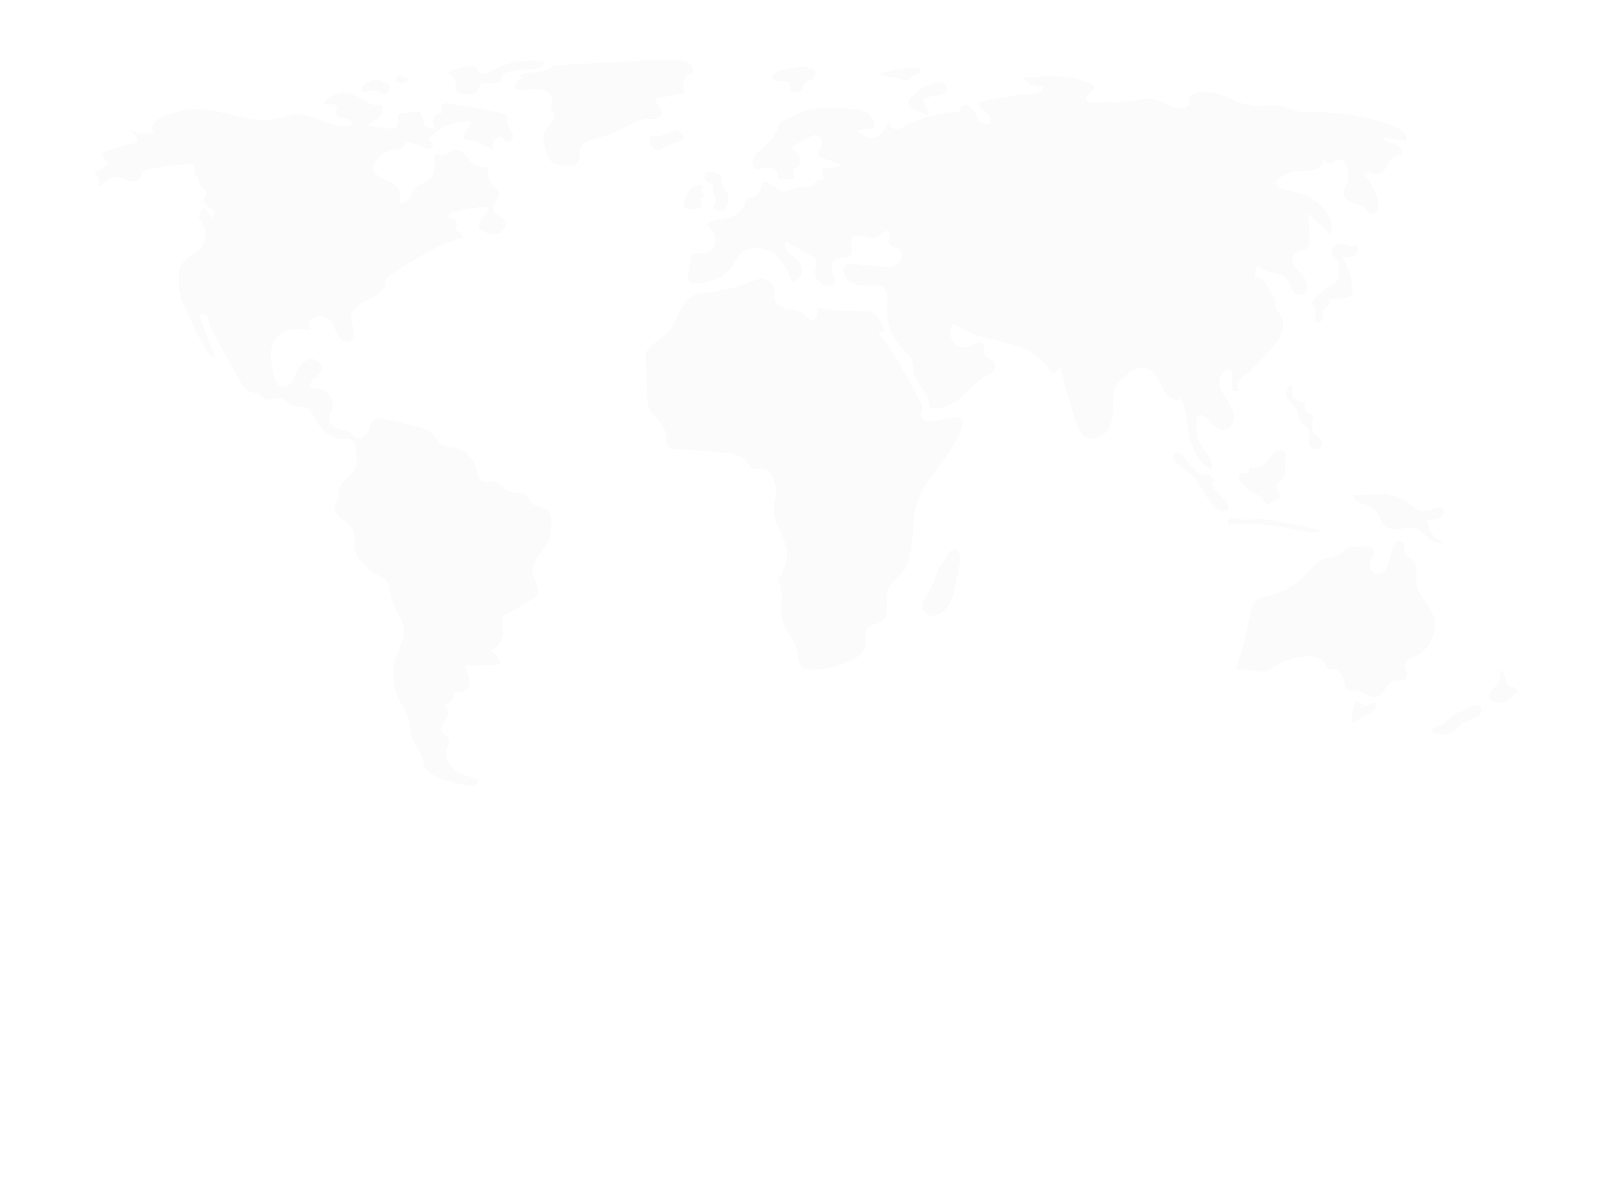
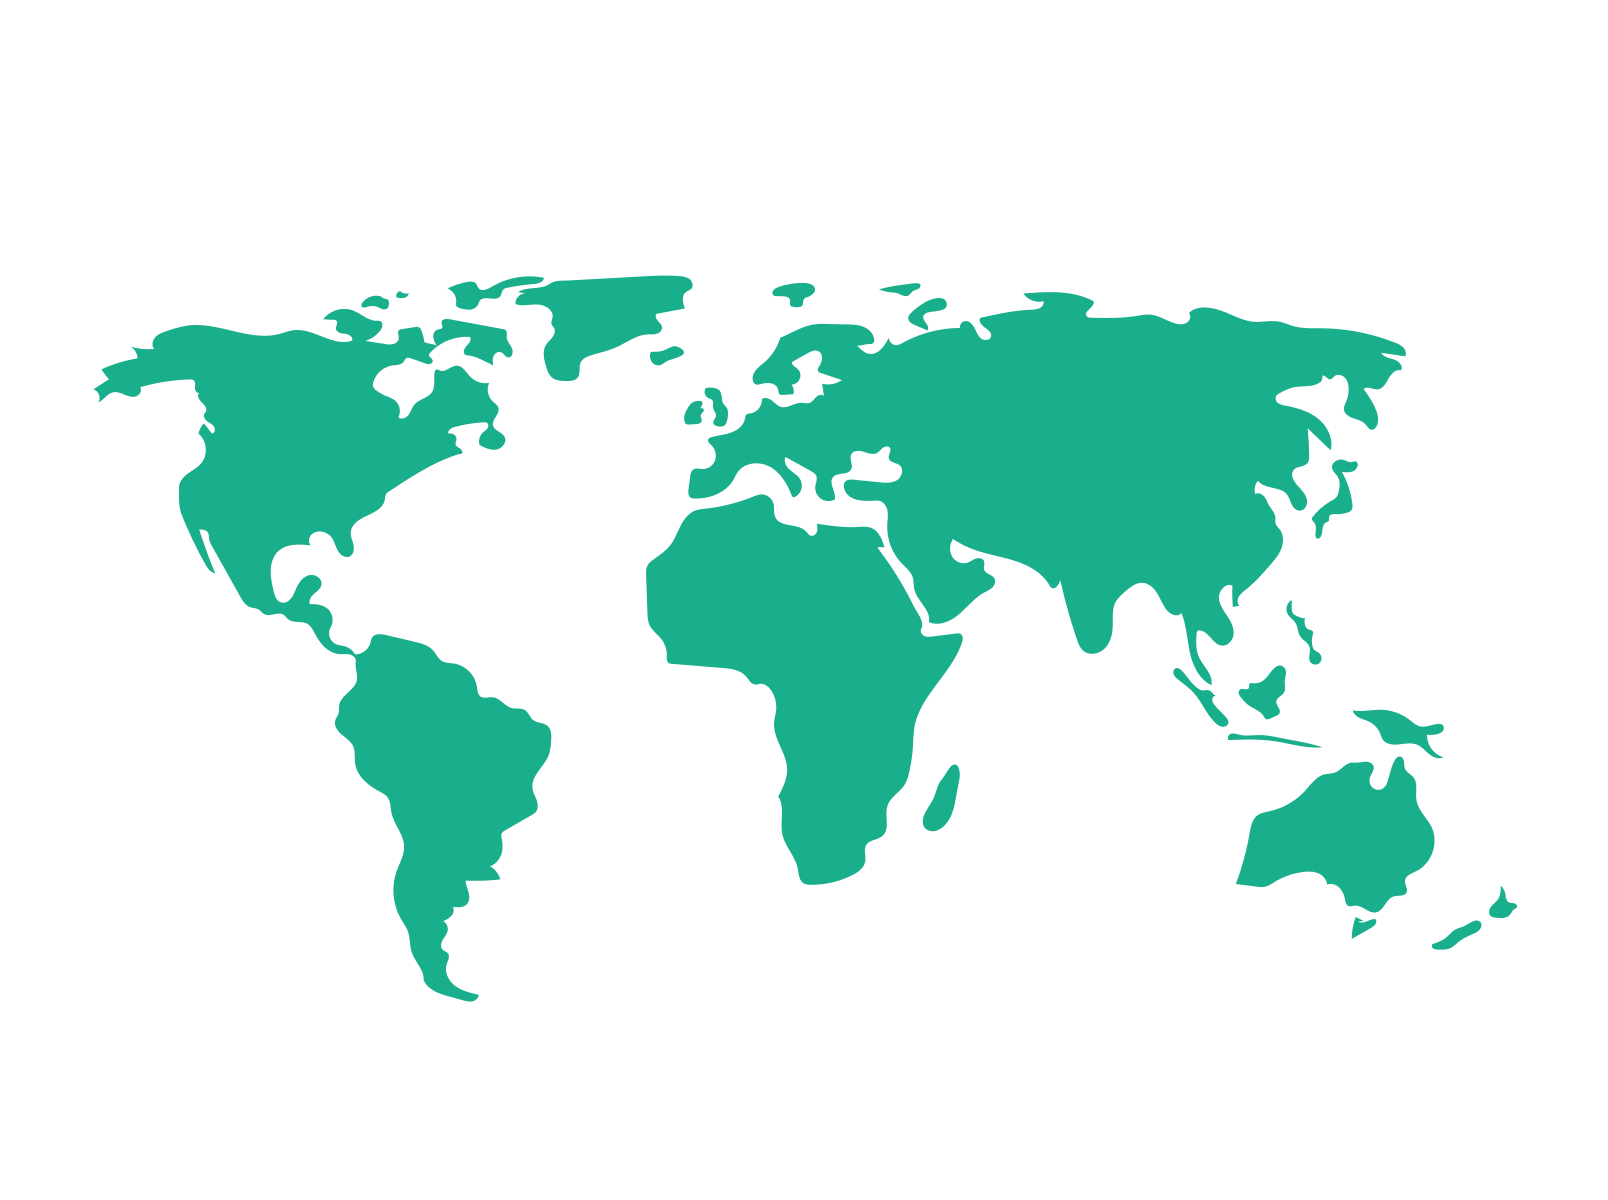
Atualizar css

diff --git a/user/index.css b/user/index.css
@@ -1,0 +1,217 @@
+:root{
+    --bg-color: #ffffff;
+    --color-text: #1869AB;
+    --color-btn: #19AF8C;
+}
+
+* {
+    margin: 0;
+    padding: 0;
+    box-sizing: border-box;
+}
+
+@font-face {
+    font-family: 'minha-fonte';
+    src: url('../fonts/PlaypenSans-Regular.ttf') format('woff2');
+}
+
+
+body {
+    display: flex;
+    justify-content: center;
+    text-align: center;
+    align-items: center;
+    background-color: var(--bg-color);
+    font-family: 'minha-fonte', sans-serif;
+    height: 100vh;
+    overflow: hidden;
+}
+
+.container {
+    display: none;
+    flex-direction: column;
+    align-items: center;
+}
+
+
+/* --------------------------------------------------------- */
+
+/* MODAL */
+
+.modal{
+    display: flex;
+    height: 100vh;
+    width: 100vw;
+    position: absolute;
+    justify-content: center;
+    align-items: center;
+}    
+
+.modal h1{
+    color: var(--color-text);
+    z-index: 999999;
+    position: absolute;
+    font-size: 4vw;
+    top: 4vw;
+}
+
+.imagem{
+    text-align: center;
+    position: absolute;
+    top: 12vw;
+    background-color: #1869AB;
+    border-radius: 4vw 4vw 0 0;
+    height: 100vh;
+    width: 100vw;
+}
+
+#globo-img{
+    position: absolute;
+    top: -5vw;
+    left: 20%;
+    transform: translateX(-50%);
+    width: 30vw;
+
+}
+
+
+#start-btn {
+    background-color: var(--color-btn);
+    color: #ffffff;
+    cursor: pointer;
+    border: none;
+    padding: 0.5vw;
+    border-radius: 0.5vw;
+    width: 20vw;
+    font-size: 1vw;
+    margin-top: 1vw;
+}
+
+.form input{
+    width: 20vw;
+    font-size: 1vw;
+    padding: 0.5vw;
+    outline: none;
+    color: #3498db;
+    border-radius: 0.5vw;
+    font-weight: bold;
+    border: none;
+    text-transform: capitalize;
+}
+
+.form{
+    display: flex;
+    top: 7vw;
+    position: relative;
+    flex-direction: column;
+    justify-content: center;
+    gap: 0.5vw;
+    z-index: 20000000000;
+}
+
+.form label{
+    text-align: left;
+    color: var(--bg-color);
+    font-size: 1vw;
+}
+
+/* .spinner {
+    position: absolute;
+    top: 50%;
+    left: 50%;
+    margin-left: -25px;
+    margin-top: -25px;
+    border: 4px solid rgba(255, 255, 255, 0.3);
+    border-top: 4px solid #3498db;
+    border-radius: 50%;
+    width: 50px;
+    height: 50px;
+    display: none;
+    animation: spin 1s linear infinite;
+    z-index: 1000;
+} */
+
+/* @keyframes spin {
+    0% {
+        transform: rotate(0deg);
+    }
+
+    100% {
+        transform: rotate(360deg);
+    }
+} */
+
+
+/* ------------------------------------------- */
+
+@media (max-width: 768px) {
+
+    body {
+        display: flex;
+        justify-content: center;
+        text-align: center;
+        align-items: center;
+        background-color: var(--bg-color);
+        height: 100vh;
+        font-family: 'minha-fonte', sans-serif;
+    }
+
+    .modal h1{
+        color: var(--color-text);
+        z-index: 999999;
+        position: absolute;
+        font-size: 10vw;
+        top: 10vw;
+    }
+
+    .imagem{
+        text-align: center;
+        position: absolute;
+        top: 50vw;
+        background-color: #1869AB;
+        border-radius: 4vw 4vw 0 0;
+        height: 100vh;
+        width: 100vw;
+    }
+    
+    #globo-img{
+        position: absolute;
+        top: -22vw;
+        left: 50%;
+        transform: translateX(-50%);
+        width: 60vw;
+    }
+
+
+    #start-btn{
+        padding: 2vw;
+        border-radius: 1vw;
+        width: 70vw;
+        font-size: 5vw;
+    }
+    
+    .form input{
+        width: 70vw;
+        font-size: 4vw;
+        padding: 1.5vw;
+        outline: none;
+        border-radius: 1vw;
+    }
+    
+    .form{
+        top: 30vw;
+        position: relative;
+        flex-direction: column;
+        justify-content: center;
+        gap: 2vw;
+        padding: 3vw;
+        background-color: var(--color-text);
+    }
+    
+    .form label{
+        text-align: left;
+        color: var(--bg-color);
+        font-size: 4vw;
+    }
+
+}

diff --git a/user/index.html b/user/index.html
@@ -5,42 +5,36 @@
     <meta charset="UTF-8">
     <meta name="viewport" content="width=device-width, initial-scale=1.0">
     <link rel="shortcut icon" href="./placeholder.png" type="image/x-icon">
-    <link rel="stylesheet" href="style.css">
-    <title>Rastreamento</title>
+    <!-- <script src="script.js"></script> -->
+    <link rel="stylesheet" href="index.css">
+    <title>Login</title>
 </head>
 
 <body>
 
-    <div id="app">
+    <div class="modal">
 
-        <div class="container" style="padding-top: 10vw ;">
+        <h1>Bem Vindo!</h1>
 
+        <div class="imagem">
 
-            <img src="./map.png" alt="" id="map_img">
-
-        </div>
-
-
-        <div class="titulo">
-
-            <h1 id="saudacao"></h1>
-
-
-
-            <div class="form">
-
-                <h1 style="color: var( --primary-color)">Entrar</h1>
-
-                <input type="text" placeholder="Digite Seu Nome" id="nome">
-
-                <button id="start-btn" style="position: relative; bottom: 0; cursor: pointer;">Continuar</button>
-
-            </div>
+            <img src="./globoimg.png" alt="" id="globo-img">
 
         </div>
 
+        <div class="form">
 
+            <label for="nome">Usuário:</label>
 
+            <input type="text" placeholder="Digite seu Usuário" id="nome">
+
+            <label for="nome">Senha:</label>
+
+            <input type="password" placeholder="*****" id="senha">
+
+            <button id="start-btn">Entrar</button>
+
+        </div>
 
     </div>
 
@@ -57,7 +51,6 @@
         });
 
     </script>
-
 
 </body>
 

diff --git a/user/home.html b/user/home.html
@@ -9,7 +9,7 @@
     <link rel="shortcut icon" href="placeholder.png" type="image/x-icon">
     <script src="https://unpkg.com/leaflet/dist/leaflet.js"></script>
     <link rel="stylesheet" href="https://unpkg.com/leaflet/dist/leaflet.css">
-    <link rel="stylesheet" href="style.css">
+    <link rel="stylesheet" href="home.css">
 
 </head>
 